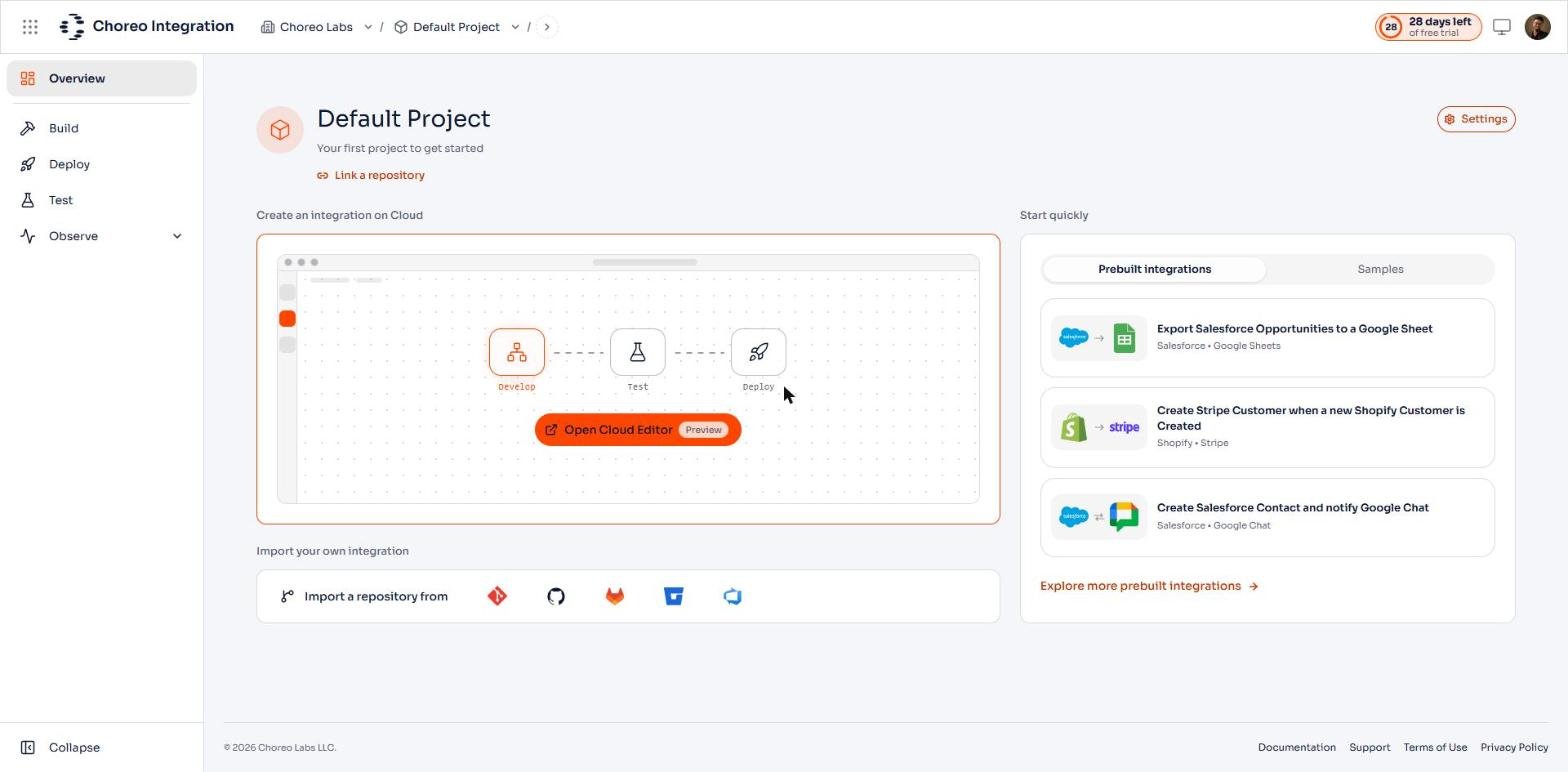
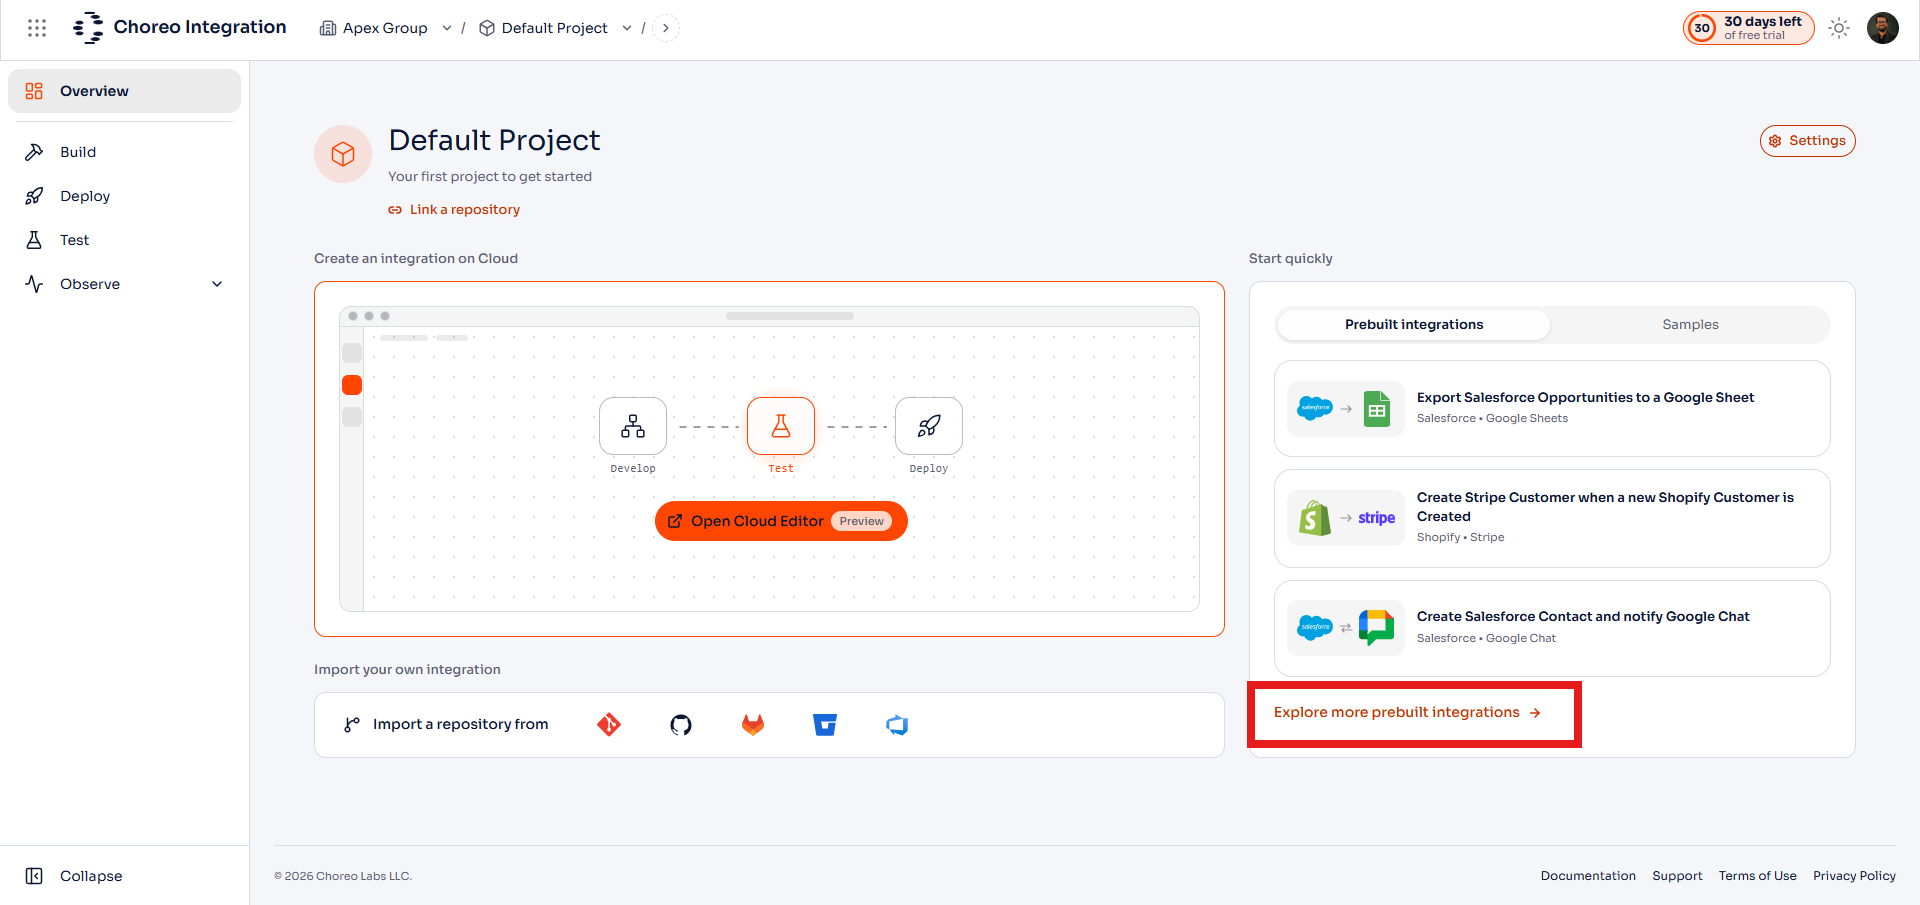
docs(v3): use the annotated project view for prebuilt integrations
Replaces project-level-view.png with Amila's capture of the Apex Group
project overview, which highlights "Explore more prebuilt integrations"
in the Start quickly panel. 1920x905, against my 1568px unannotated one.

Alt text updated to describe the highlighted link.

The capture is annotated, so it is used only for this step. The other
three slots showing the same project home keep the unannotated image.

diff --git a/en/docs/get-started/prebuilt-integrations.md b/en/docs/get-started/prebuilt-integrations.md
@@ -45,7 +45,7 @@ A working Choreo Integrator environment.
 Log in to [Choreo Cloud](https://cloud-console-development.gateway.dev.cloud.wso2.com), then create a project and navigate to the project-level view. You'll see prebuilt integrations in the **Start quickly** panel on the right. Click **Explore more prebuilt integrations** to see the full catalog.
 
 <ThemedImage
-    alt="Project-level view in Choreo Cloud showing the Start quickly panel with prebuilt integrations"
+    alt="Project overview in Choreo Integration with the Start quickly panel and Explore more prebuilt integrations highlighted"
     sources={{
         light: useBaseUrl('/img/get-started/prebuilt-integrations/project-level-view.png'),
         dark: useBaseUrl('/img/get-started/prebuilt-integrations/project-level-view.png'),
